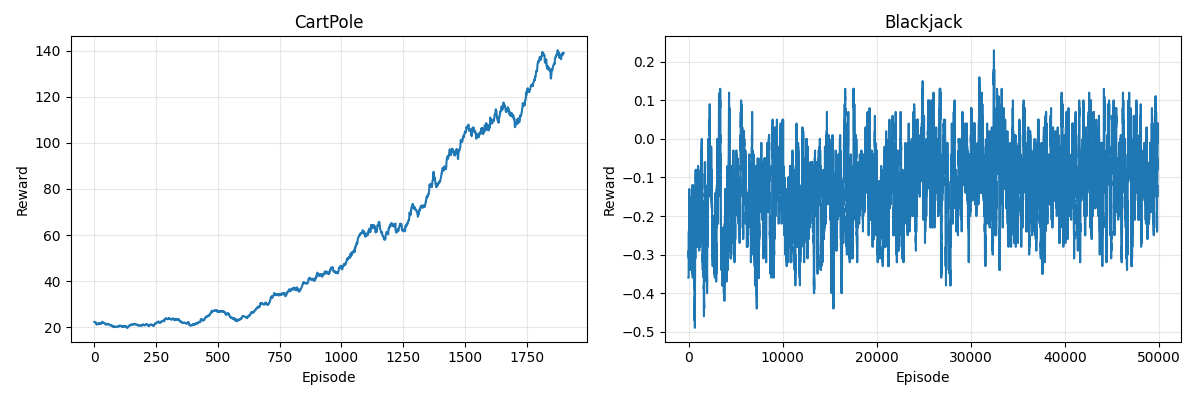
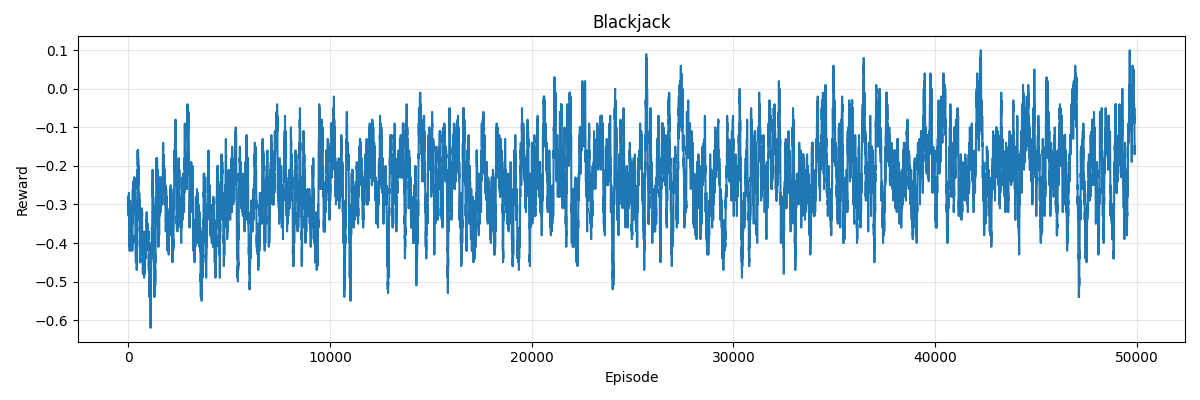
Update hyperparameters and training episodes for Blackjack and CartPole experiments

diff --git a/one_step_actor_critic/run.py b/one_step_actor_critic/run.py
@@ -20,9 +20,9 @@ def run_blackjack():
     agent = OneStepActorCritic(
         num_actions=env.num_actions,
         state_dim=3,
-        alpha_theta=0.01,
-        alpha_w=0.01,
-        gamma=1.0,
+        alpha_theta=0.0001,
+        alpha_w=0.001,
+        gamma=0.99,
         order=2,
         state_bounds=state_bounds
     )
@@ -51,7 +51,7 @@ def run_cartpole():
         state_bounds=state_bounds
     )
     
-    rewards = train(env, agent, num_episodes=2000)
+    rewards = train(env, agent, num_episodes=5000)
     env.close()
     return rewards
 
@@ -80,7 +80,7 @@ def plot_results(rewards_dict, window=100):
 if __name__ == '__main__':
     results = {}
 
-    results['CartPole'] = run_cartpole()
+    # results['CartPole'] = run_cartpole()
     results['Blackjack'] = run_blackjack()
     
     plot_results(results)
